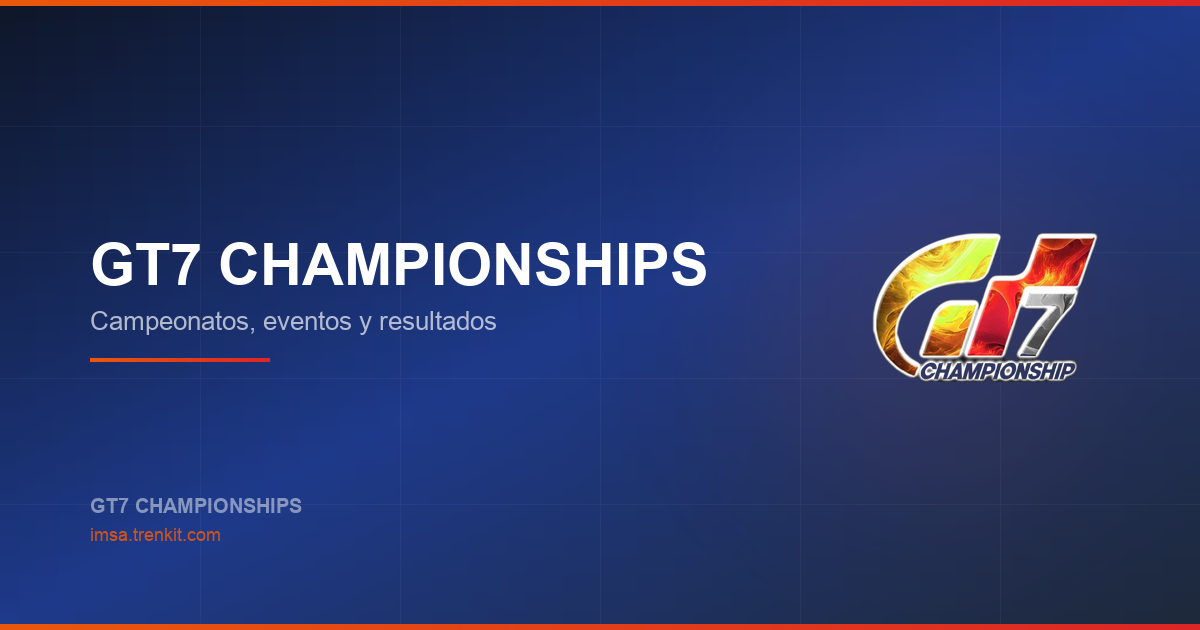
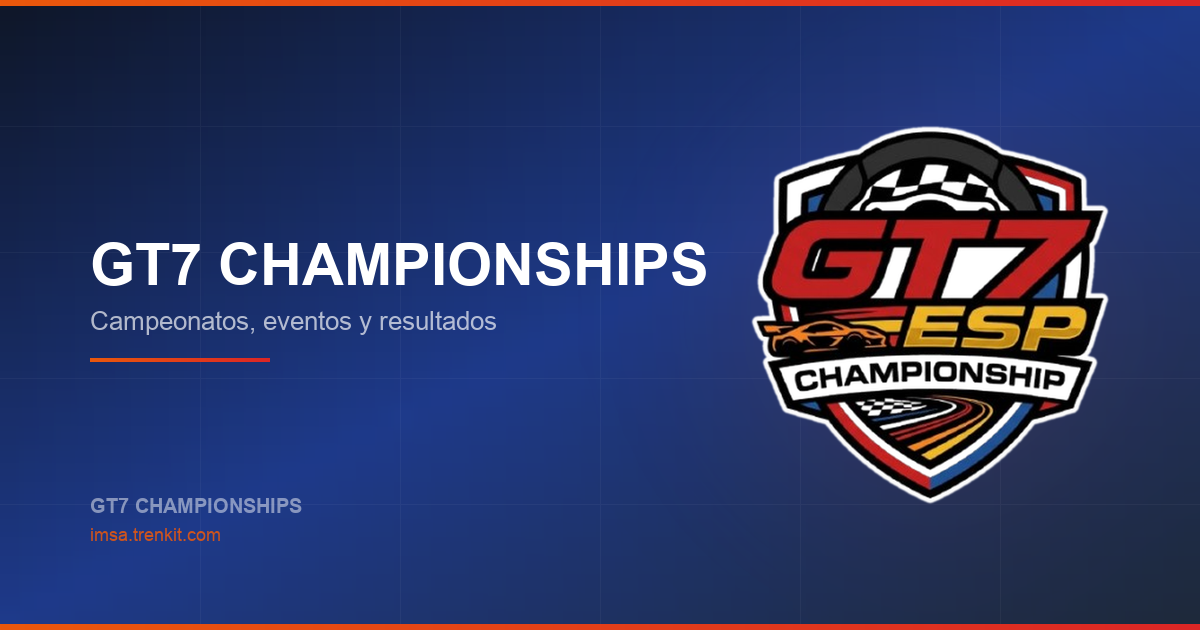
feat(marca): escudo GT7 ESP en las vistas previas, la barra y el pie
La página principal compartía el logo antiguo suelto (cuadrado, claro y
con textura), que apenas se distinguía en WhatsApp. Ahora comparte la
tarjeta 1200×630 como el resto de secciones, y todas llevan el escudo
GT7 ESP sin deformar.

El PNG con el fondo quitado había perdido también la placa blanca de
CHAMPIONSHIP y las franjas; se rellenó el interior del escudo y se quitó
la marca de Gemini.

Changed region(s): [[0.6167, 0.181, 0.925, 0.8143]]

diff --git a/src/app/components/Footer.js b/src/app/components/Footer.js
@@ -11,7 +11,7 @@ export default function Footer() {
                     {/* Brand */}
                     <div className="md:col-span-2">
                         <div className="flex items-center gap-3 mb-4">
-                            <Image src="/logo_gt7.png" alt="GT7 Championships" width={40} height={40} className="w-10 h-10 object-contain" />
+                            <Image src="/logo_gt7_esp_sm.png" alt="GT7 Championships" width={40} height={40} className="w-10 h-10 object-contain" />
                             <span className="text-white font-bold text-lg">GT7 Championships</span>
                         </div>
                         <p className="text-gray-400 max-w-prose">

diff --git a/src/app/layout.js b/src/app/layout.js
@@ -21,7 +21,7 @@ export const metadata = {
     siteName: "GT7 Championship",
     images: [
       {
-        url: "/logo_gt7.png",
+        url: "/og-image.png",
         width: 1200,
         height: 630,
         alt: "GT7 Championships - Dashboard del Campeonato",
@@ -34,7 +34,7 @@ export const metadata = {
     card: "summary_large_image",
     title: "GT7 Championship",
     description: "Dashboard de resultados del campeonato GT7 Championship",
-    images: ["/logo_gt7.png"],
+    images: ["/og-image.png"],
     creator: "@GT7ESPRacing",
   },
   icons: {

diff --git a/src/app/head.js b/src/app/head.js
@@ -4,7 +4,7 @@ export default function Head() {
         "Consulta en tiempo real las estadísticas, clasificaciones y resultados del campeonato GT7 Championships. Dashboard interactivo con datos actualizados.";
     const siteName = "GT7 Championships";
     const url = "https://imsa.trenkit.com/";
-    const image = "https://imsa.trenkit.com/logo_gt7.png"; // PNG para previews
+    const image = "https://imsa.trenkit.com/og-image.png"; // tarjeta 1200×630 para previews
 
     const fbAppId = process.env.NEXT_PUBLIC_FB_APP_ID;
 

diff --git a/src/app/page.js b/src/app/page.js
@@ -7,7 +7,9 @@ export const metadata = {
   openGraph: {
     title: "Dashboard - GT7 Championships",
     description: "Consulta en tiempo real las estadísticas, clasificaciones y resultados del campeonato GT7 Championships.",
-    images: ["/logo_gt7.png"],
+    // La tarjeta 1200×630 y no el logo suelto: el logo cuadrado y claro
+    // apenas se distinguía en la vista previa de WhatsApp.
+    images: [{ url: "/og-image.png", width: 1200, height: 630, alt: "GT7 Championships" }],
   },
 }
 

diff --git a/src/app/components/Navbar.js b/src/app/components/Navbar.js
@@ -65,7 +65,7 @@ export default function Navbar() {
                                     />
                                 ) : (
                                     <Image
-                                        src="/logo_gt7.png"
+                                        src="/logo_gt7_esp_sm.png"
                                         alt={displayName}
                                         width={56}
                                         height={56}

diff --git a/scripts/prerender-content.js b/scripts/prerender-content.js
@@ -335,7 +335,7 @@ function buildOrganizationJsonLd() {
         name: 'GT7 Championships',
         sport: 'Sim Racing — Gran Turismo 7',
         url: `${BASE_URL}/`,
-        logo: `${BASE_URL}/logo_gt7.png`,
+        logo: `${BASE_URL}/logo_gt7_esp.png`,
     };
 }
 

diff --git a/src/app/lib/metadata.js b/src/app/lib/metadata.js
@@ -2,7 +2,7 @@
 export function generateMetadata({
     title,
     description,
-    images = ["/logo_gt7.png"],
+    images = ["/og-image.png"],
     url,
     type = "website",
     keywords = [],

diff --git a/scripts/generate-og-images.py b/scripts/generate-og-images.py
@@ -18,7 +18,11 @@ from PIL import Image, ImageDraw, ImageFilter, ImageFont
 import os
 
 PUBLIC_DIR = os.path.join(os.path.dirname(__file__), '..', 'public')
-LOGO_PATH = os.path.join(PUBLIC_DIR, 'logo_gt7.png')
+# El escudo GT7 ESP. El logo antiguo (logo_gt7.png) era blanco con textura y
+# apenas se distinguía en la vista previa de WhatsApp. Este sale del PNG con
+# el fondo quitado, con el interior blanco reconstruido: la herramienta de
+# recorte se había llevado también la placa de "CHAMPIONSHIP" y las franjas.
+LOGO_PATH = os.path.join(PUBLIC_DIR, 'logo_gt7_esp.png')
 
 WIDTH, HEIGHT = 1200, 630
 
@@ -165,11 +169,12 @@ def generate_og_image(section, fuentes):
     img.paste(barra_cta(WIDTH, 6), (0, HEIGHT - 6))
 
     # ── Logo ──
+    # Conserva la proporción (el escudo es más alto que ancho; forzarlo a un
+    # cuadrado lo achataba) y va centrado sobre el halo.
     try:
         logo = Image.open(LOGO_PATH).convert('RGBA')
-        lado = 240
-        logo = logo.resize((lado, lado), Image.LANCZOS)
-        img.paste(logo, (WIDTH - lado - 90, (HEIGHT - lado) // 2), logo)
+        logo.thumbnail((380, 380), Image.LANCZOS)
+        img.alpha_composite(logo, (cx - logo.width // 2, cy - logo.height // 2))
     except Exception as e:
         print(f"  [aviso] No se pudo insertar el logo: {e}")
 
